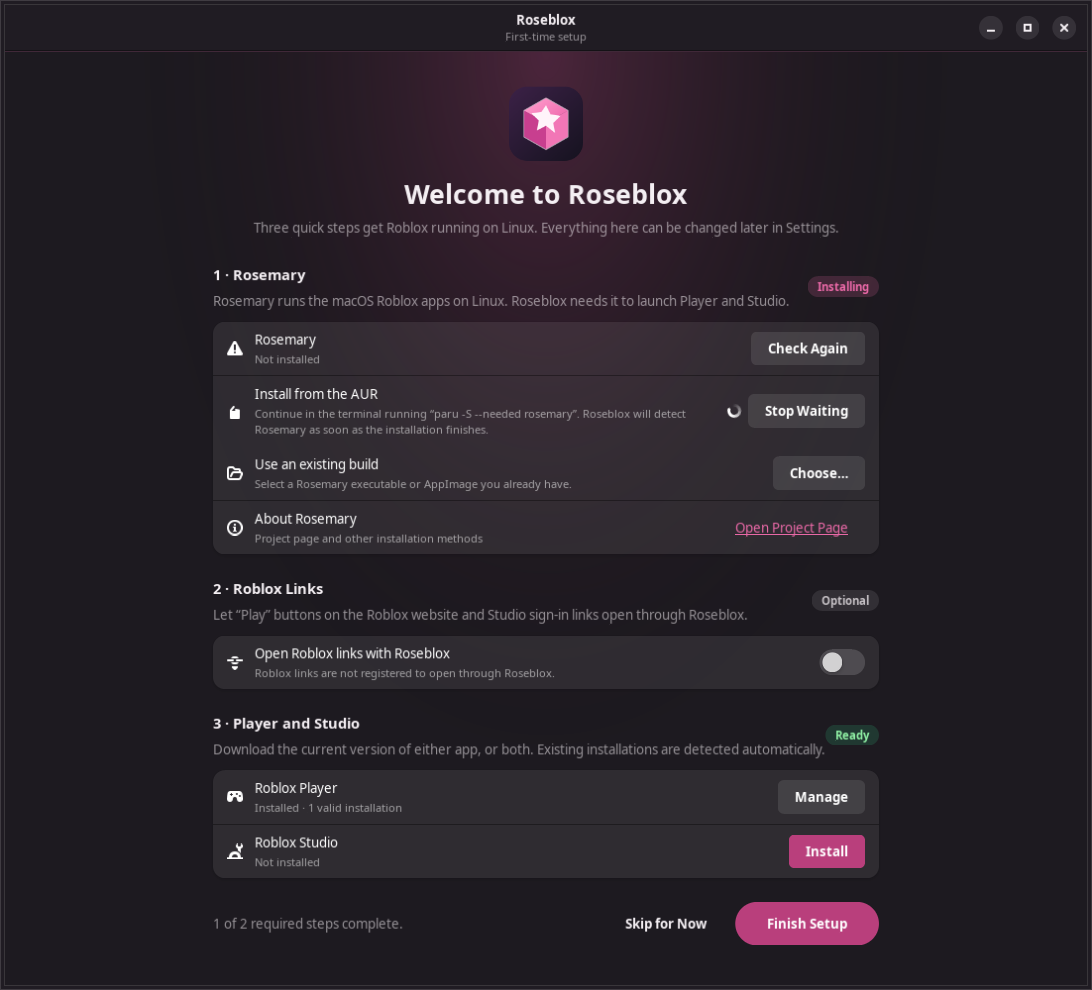
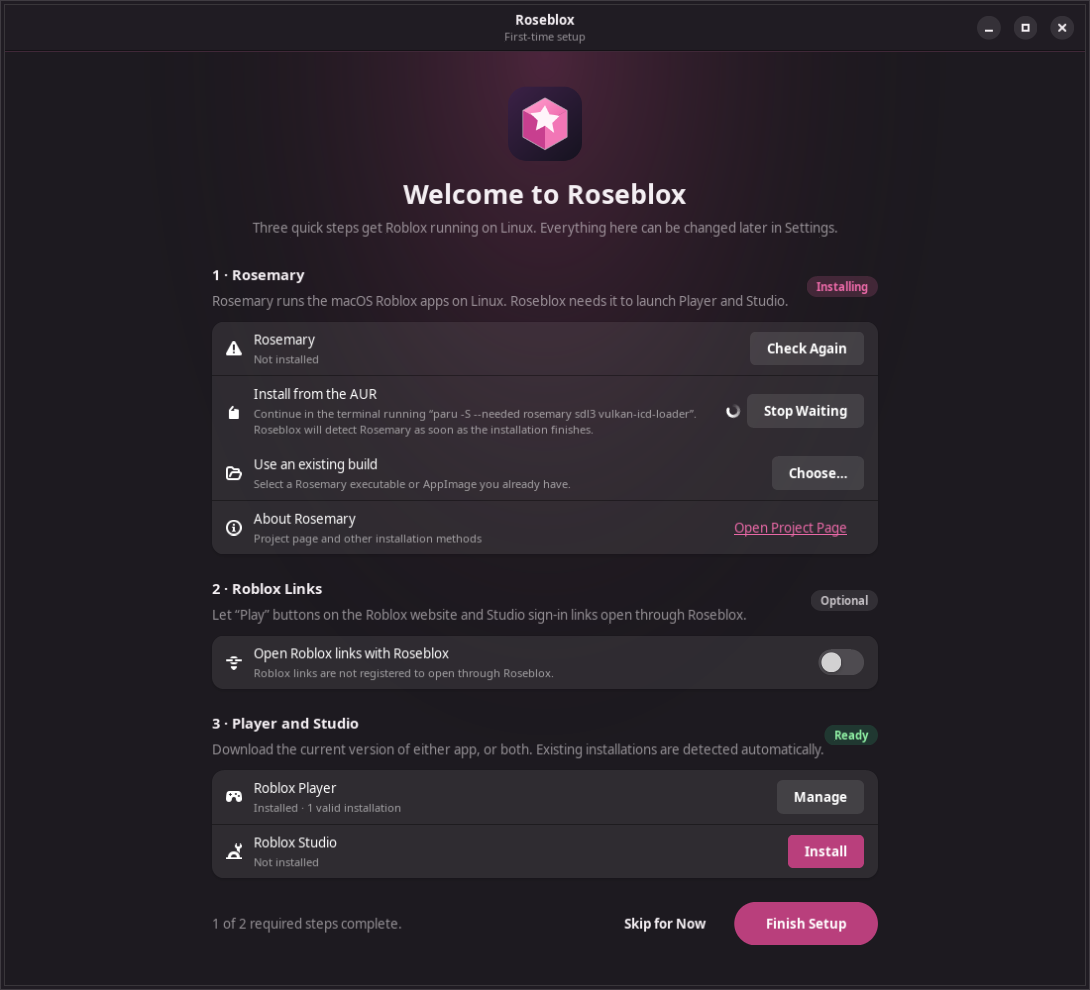
Install Rosemary's runtime packages and set up its prefix
A fresh AUR install could not run Roblox: the rosemary package lists SDL 3
and the Vulkan loader as optional, and Rosemary has no macOS base system
until a prefix is created (its own download prompt needs a display).
The install terminal now runs '<helper> -S --needed rosemary sdl3
vulkan-icd-loader' followed by 'rosemary prefix create'. Verified against
the real yay and rosemary 0.5.0 on Arch.

diff --git a/tests/test_rosemary_install.py b/tests/test_rosemary_install.py
@@ -6,6 +6,7 @@ from unittest.mock import Mock
 
 from roseblox.backend.rosemary_install import (
     ROSEMARY_AUR_PACKAGE,
+    ROSEMARY_INSTALL_PACKAGES,
     RosemaryInstallError,
     build_install_command,
     find_aur_helper,
@@ -32,36 +33,55 @@ class RosemaryInstallPlanTests(unittest.TestCase):
         self.assertEqual(("/usr/bin/konsole", ("-e",)), find_terminal(lookup, {"TERMINAL": "unknown-term"}))
         self.assertIsNone(find_terminal(lookup_for("paru"), {}))
 
-    def test_install_command_passes_helper_and_package_as_arguments(self):
+    def test_install_command_passes_helper_and_packages_as_arguments(self):
         command = build_install_command("/usr/bin/gnome-terminal", ("--wait", "--"), "/usr/bin/paru")
         self.assertEqual(("/usr/bin/gnome-terminal", "--wait", "--", "/bin/sh", "-c"), command[:5])
-        self.assertEqual(("/usr/bin/paru", ROSEMARY_AUR_PACKAGE), command[-2:])
+        self.assertEqual(("/usr/bin/paru", *ROSEMARY_INSTALL_PACKAGES), command[-4:])
+        self.assertEqual((ROSEMARY_AUR_PACKAGE, "sdl3", "vulkan-icd-loader"), ROSEMARY_INSTALL_PACKAGES)
         self.assertNotIn("paru", command[5])
 
-    def test_install_script_runs_helper_and_preserves_exit_status(self):
+    def _stub(self, directory, name, body):
+        path = Path(directory) / name
+        path.write_text(f"#!/bin/sh\n{body}\n", encoding="utf-8")
+        path.chmod(0o755)
+        return path
+
+    def test_install_script_installs_packages_then_prepares_the_prefix(self):
         with tempfile.TemporaryDirectory() as directory:
-            helper = Path(directory) / "paru"
-            helper.write_text('#!/bin/sh\necho "helper: $*"\nexit "$STUB_STATUS"\n', encoding="utf-8")
-            helper.chmod(0o755)
-            for status, outcome in ((0, "Rosemary is installed"), (3, "exit status 3")):
-                with self.subTest(status=status):
-                    command = build_install_command("/usr/bin/env", (f"STUB_STATUS={status}",), str(helper))
+            helper = self._stub(directory, "paru", 'echo "helper: $*"\nexit "$STUB_STATUS"')
+            self._stub(directory, "rosemary", 'echo "rosemary: $* setup=$ROSEMARY_PREFIX_SETUP"\nexit "$PREFIX_STATUS"')
+            cases = (
+                (0, 0, "Rosemary is installed. You can return", True),
+                (0, 1, "its prefix is not set up yet", True),
+                (3, 0, "exit status 3", False),
+            )
+            for status, prefix_status, outcome, prepares_prefix in cases:
+                with self.subTest(status=status, prefix_status=prefix_status):
+                    environment = (
+                        f"PATH={directory}:/usr/bin:/bin",
+                        f"STUB_STATUS={status}",
+                        f"PREFIX_STATUS={prefix_status}",
+                    )
+                    command = build_install_command("/usr/bin/env", environment, str(helper))
                     result = subprocess.run(command, input="\n", capture_output=True, text=True)
                     self.assertEqual(status, result.returncode)
-                    self.assertIn(f"helper: -S --needed {ROSEMARY_AUR_PACKAGE}", result.stdout)
+                    self.assertIn("helper: -S --needed rosemary sdl3 vulkan-icd-loader", result.stdout)
                     self.assertIn(outcome, result.stdout)
+                    self.assertEqual(
+                        prepares_prefix, "rosemary: prefix create setup=download" in result.stdout
+                    )
 
     def test_plan_requires_helper_and_terminal(self):
         plan = plan_rosemary_install(lookup_for("pacman", "yay", "foot"), {})
         self.assertEqual("yay", plan.helper_name)
-        self.assertEqual("yay -S --needed rosemary", plan.display_command)
+        self.assertEqual("yay -S --needed rosemary sdl3 vulkan-icd-loader", plan.display_command)
         self.assertEqual("/usr/bin/foot", plan.command[0])
 
         with self.assertRaisesRegex(RosemaryInstallError, "Arch-based"):
             plan_rosemary_install(lookup_for("foot"), {})
         with self.assertRaisesRegex(RosemaryInstallError, "No AUR helper"):
             plan_rosemary_install(lookup_for("pacman", "foot"), {})
-        with self.assertRaisesRegex(RosemaryInstallError, "paru -S --needed rosemary"):
+        with self.assertRaisesRegex(RosemaryInstallError, "paru -S --needed rosemary sdl3"):
             plan_rosemary_install(lookup_for("pacman", "paru"), {})
 
     def test_start_opens_terminal_without_a_shell_string(self):

diff --git a/src/roseblox/backend/rosemary_install.py b/src/roseblox/backend/rosemary_install.py
@@ -13,6 +13,10 @@ from typing import Callable, Mapping
 ROSEMARY_AUR_PACKAGE = "rosemary"
 ROSEMARY_AUR_URL = f"https://aur.archlinux.org/packages/{ROSEMARY_AUR_PACKAGE}"
 ROSEMARY_PROJECT_URL = "https://github.com/microlift/rosemary"
+# The AUR package lists these as optional, but Rosemary needs SDL 3 for any GUI app and
+# Vulkan for Metal, so Roblox cannot start without them. Both come from Arch's repositories.
+ROSEMARY_RUNTIME_PACKAGES = ("sdl3", "vulkan-icd-loader")
+ROSEMARY_INSTALL_PACKAGES = (ROSEMARY_AUR_PACKAGE, *ROSEMARY_RUNTIME_PACKAGES)
 AUR_HELPERS = ("paru", "yay")
 
 # Each entry maps a terminal command to the arguments that run a program in a new window.
@@ -33,12 +37,21 @@ _TERMINALS: tuple[tuple[str, tuple[str, ...]], ...] = (
 )
 _TERMINAL_PREFIXES = dict(_TERMINALS)
 
-# Runs inside the terminal: "$1" is the helper, "$2" the package. The window stays open
-# so the result can be read, and the helper's exit status is preserved.
+# Runs inside the terminal: "$1" is the helper and the remaining arguments are packages.
+# After installing, Rosemary's default prefix gets its macOS base system; without a display
+# Rosemary cannot show its own download prompt, and "prefix create" is a no-op once the
+# prefix exists. The window stays open so the result can be read, and the helper's exit
+# status is preserved.
 _INSTALL_SCRIPT = (
-    'printf "Roseblox is installing the %s package from the AUR with %s.\\n\\n" "$2" "${1##*/}"; '
-    '"$1" -S --needed "$2"; status=$?; echo; '
-    'if [ "$status" -eq 0 ]; then echo "Rosemary is installed. You can return to Roseblox."; '
+    'helper=$1; shift; '
+    'printf "Roseblox is installing %s with %s.\\n\\n" "$*" "${helper##*/}"; '
+    '"$helper" -S --needed "$@"; status=$?; echo; '
+    'if [ "$status" -eq 0 ]; then '
+    'echo "Setting up the Rosemary prefix (downloads the macOS base system once)."; '
+    'if ROSEMARY_PREFIX_SETUP=download rosemary prefix create; then '
+    'echo; echo "Rosemary is installed. You can return to Roseblox."; '
+    'else echo; echo "Rosemary is installed, but its prefix is not set up yet. Rosemary offers to '
+    'download the base system when it first runs, or run: rosemary prefix create"; fi; '
     'else echo "Installation did not finish (exit status $status)."; fi; '
     'printf "Press Enter to close this window. "; read -r _; exit "$status"'
 )
@@ -67,7 +80,11 @@ class RosemaryInstallPlan:
 
     @property
     def display_command(self) -> str:
-        return f"{self.helper_name} -S --needed {ROSEMARY_AUR_PACKAGE}"
+        return _helper_command(self.helper_name)
+
+
+def _helper_command(helper_name: str) -> str:
+    return f"{helper_name} -S --needed {' '.join(ROSEMARY_INSTALL_PACKAGES)}"
 
 
 def find_aur_helper(lookup: Callable[[str], str | None] = shutil.which) -> str | None:
@@ -103,7 +120,7 @@ def build_install_command(terminal: str, prefix: tuple[str, ...], helper: str) -
         _INSTALL_SCRIPT,
         "roseblox-install-rosemary",
         helper,
-        ROSEMARY_AUR_PACKAGE,
+        *ROSEMARY_INSTALL_PACKAGES,
     )
 
 
@@ -127,7 +144,7 @@ def plan_rosemary_install(
     if terminal is None:
         raise RosemaryInstallError(
             "No supported terminal emulator was found to run the installation. Run "
-            f"“{Path(helper).name} -S --needed {ROSEMARY_AUR_PACKAGE}” in a terminal, then check again."
+            f"“{_helper_command(Path(helper).name)}” in a terminal, then check again."
         )
     terminal_path, prefix = terminal
     return RosemaryInstallPlan(helper, terminal_path, build_install_command(terminal_path, prefix, helper))

diff --git a/README.md b/README.md
@@ -32,7 +32,7 @@ The repository also includes a pinned release PKGBUILD at `packaging/arch/PKGBUI
 
 Run `makepkg` as a regular user; it will request system package installation through pacman as needed. Each recipe installs Roseblox into the system Python package path, its MIT license under `/usr/share/licenses/<package name>/`, a scalable application icon, and the `roseblox` command and desktop menu entry. **The AUR package has not been published yet.**
 
-Rosemary must be discoverable as `rosemary` in `PATH`, or configured through Roseblox's Settings page. Roseblox never bundles Rosemary or downloads it itself. When Rosemary is missing, **Install Rosemary** (in setup and Settings) opens a terminal running `paru -S --needed rosemary` (or `yay` when paru is absent), so you can review the [AUR package](https://aur.archlinux.org/packages/rosemary) and authenticate there; Roseblox detects the new executable automatically when the build finishes. The terminal is chosen from `$TERMINAL` when supported, then `xdg-terminal-exec`, GNOME Console, Ptyxis, GNOME Terminal, Konsole, Xfce Terminal, Alacritty, kitty, foot, WezTerm, Ghostty, and xterm. You can also choose any existing Rosemary executable or release AppImage. ZIP archive import and installation use `bsdtar`, provided by Arch's `libarchive` package; install `libarchive` if this command is unavailable. Roblox bundles and downloaded archives are kept in the user's XDG data directory and are not removed when Roseblox is uninstalled.
+Rosemary must be discoverable as `rosemary` in `PATH`, or configured through Roseblox's Settings page. Roseblox never bundles Rosemary or downloads it itself. When Rosemary is missing, **Install Rosemary** (in setup and Settings) opens a terminal running `paru -S --needed rosemary sdl3 vulkan-icd-loader` (or `yay` when paru is absent), so you can review the [AUR package](https://aur.archlinux.org/packages/rosemary) and authenticate there. The AUR package lists SDL 3 and the Vulkan loader as optional, but Roblox cannot start without them. After a successful install the terminal runs `rosemary prefix create`, which downloads Rosemary's macOS base system into its default prefix once; Roseblox detects the new executable automatically when the build finishes. A Vulkan driver for your GPU (for example `vulkan-radeon`, `vulkan-intel` or `nvidia-utils`) is also required. The terminal is chosen from `$TERMINAL` when supported, then `xdg-terminal-exec`, GNOME Console, Ptyxis, GNOME Terminal, Konsole, Xfce Terminal, Alacritty, kitty, foot, WezTerm, Ghostty, and xterm. You can also choose any existing Rosemary executable or release AppImage. ZIP archive import and installation use `bsdtar`, provided by Arch's `libarchive` package; install `libarchive` if this command is unavailable. Roblox bundles and downloaded archives are kept in the user's XDG data directory and are not removed when Roseblox is uninstalled.
 
 On first launch, Roseblox opens a full-window setup with three steps, each marked Required, Optional, Installing, or Ready: install or choose Rosemary, turn on Roblox link handling, and install Player or Studio. App installs run in place with progress and Cancel. You can skip and finish at any time, and reopen setup from Settings. URL handling is disabled until you explicitly enable it, and it can be turned on or off later with the **Open Roblox links with Roseblox** switch in Settings. Roseblox registers the `roblox`, `roblox-player`, `roblox-studio`, and `roblox-studio-auth` schemes for your user account using XDG desktop associations; Settings reports whether registration is active and can repair a missing registration. Turning it off restores previous defaults when Roseblox still owns the current default and removes only Roseblox's own associations. The feature requires `xdg-utils` (`xdg-mime`).
 

diff --git a/docs/INSTALL.md b/docs/INSTALL.md
@@ -20,7 +20,17 @@ cd /tmp/paru-bin
 makepkg -si
 ```
 
-### 3. Download Roseblox
+### 3. Make sure you have a Vulkan driver
+
+Roblox draws through Vulkan. Most desktops already have one; if not, install the one for your GPU:
+
+```sh
+sudo pacman -S --needed vulkan-radeon    # AMD
+sudo pacman -S --needed vulkan-intel     # Intel
+sudo pacman -S --needed nvidia-utils     # NVIDIA (proprietary driver)
+```
+
+### 4. Download Roseblox
 
 ```sh
 git clone https://github.com/MadnessMyth/RoseBlox.git ~/RoseBlox
@@ -28,7 +38,7 @@ git clone https://github.com/MadnessMyth/RoseBlox.git ~/RoseBlox
 
 Keep this folder; you will use it to update.
 
-### 4. Build and install
+### 5. Build and install
 
 ```sh
 cd ~/RoseBlox/packaging/arch-git
@@ -43,13 +53,13 @@ Check that it worked:
 pacman -Q roseblox-git
 ```
 
-### 5. Run first-time setup
+### 6. Run first-time setup
 
 Open **Roseblox** from your application menu, or run `roseblox` in a terminal. The setup page has three steps:
 
 ![First-time setup on a fresh system](screenshots/01-setup-fresh.png)
 
-1. **Rosemary** – click **Install Rosemary**. A terminal opens and runs `paru -S --needed rosemary` (or `yay`). Review the package, confirm, and enter your password. Rosemary compiles from source, so this takes a few minutes. Press Enter to close the terminal when it finishes. Roseblox detects Rosemary on its own and marks the step **Ready**. If you already have a Rosemary build or AppImage, use **Choose…** instead.
+1. **Rosemary** – click **Install Rosemary**. A terminal opens and runs `paru -S --needed rosemary sdl3 vulkan-icd-loader` (or `yay`). Review the package, confirm, and enter your password. Rosemary compiles from source, which took about 20 minutes on a test machine. The terminal then runs `rosemary prefix create`, which downloads Rosemary's macOS base system once (about 180 MB). Press Enter to close the terminal when it finishes. Roseblox detects Rosemary on its own and marks the step **Ready**. If you already have a Rosemary build or AppImage, use **Choose…** instead.
 2. **Roblox Links** (optional) – turn on **Open Roblox links with Roseblox** so that **Play** buttons on roblox.com and Studio sign-in links open through Roseblox.
 3. **Player and Studio** – click **Install** for Roblox Player, Roblox Studio, or both. The download runs on the page with a progress bar.
 

diff --git a/AGENTS.md b/AGENTS.md
@@ -3,5 +3,5 @@
 - Keep the GTK interface separate from backend application logic.
 - Use GTK 4, libadwaita, and system PyGObject; do not introduce Electron or a bundled runtime.
 - Use the established Roblox endpoints and URL patterns in the project specification.
-- Never bundle Rosemary or download it directly. The only installation path is the `rosemary` AUR package through the user's AUR helper, run in a visible terminal after an explicit click.
+- Never bundle Rosemary or download it directly. The only installation path is the `rosemary` AUR package (plus its `sdl3` and `vulkan-icd-loader` runtime packages) through the user's AUR helper, run in a visible terminal after an explicit click, followed by Rosemary's own `rosemary prefix create`.
 - Preserve user-owned archives and external application bundles during import and library operations.
